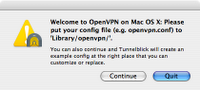
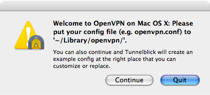
Updated 'Using Tunnelblick.html' and one of its images that go in the .dmg

diff --git a/tunnelblick/using-tunnelblick.html b/tunnelblick/using-tunnelblick.html
@@ -10,13 +10,14 @@ the <a href="http://www.gnu.org/licenses/gpl-2.0.html" rel="nofollow">GNU Genera
 <br>
 For more information, including wikis and a discussion group, see the <a href="http://code.google.com/p/tunnelblick/">Tunnelblick home page</a>.<br>
 <br>
-This document describes how to use Tunnelblick version 3.0b11 and was last modified 2009-06-19.<br>
-The most recent version of this document is kept at <a href="http://groups.google.com/group/tunnelblick-discuss/web/using-tunnelblick">http://groups.google.com/group/tunnelblick-discuss/web/using-tunnelblick</a>.<br>
+This document describes how to use Tunnelblick version 3.0b12 and was last modified 2009-07-22.<br>
+The most recently released version of this document is kept at <a href="http://groups.google.com/group/tunnelblick-discuss/web/using-tunnelblick">http://groups.google.com/group/tunnelblick-discuss/web/using-tunnelblick</a>.<br>
 <br>
 This document contains the following sections:<br>
 <ul><li><a href="#installing" rel="nofollow">Installing Tunnelblick</a></li>
 <li><a href="#updating" rel="nofollow">Updating Tunnelblick</a></li>
 <li><a href="#uninstalling" rel="nofollow">Uninstalling Tunnelblick</a></li>
+<li><a href="#configfiles" rel="nofollow">Configuration Files</a></li>
 <li><a href="#filelocations" rel="nofollow">File Locations</a></li>
 <li><a href="#thefirst" rel="nofollow">The First Time Tunnelblick is Run</a></li>
 <li><a href="#normal" rel="nofollow">Normal Tunnelblick Operation</a></li>
@@ -55,11 +56,28 @@ other files installed - OpenVPN and the tun/tap kernel extensions are
 contained within the Tunnelblick.app package and are loaded only when
 needed directly from there.<br>
 <br>
+<b><a name="configfiles" rel="nofollow">CONFIGURATION FILES</a><br>
+</b>Each tunnel to be opened by Tunnelblick needs an OpenVPN configuration file. Tunnelblick considers any file 
+located in ~/Library/openvpn with an extension of .conf or .ovpn to be a configuration file, and presents 
+each file as a potential "connection". Usually these configuration files will be supplied to you. Refer to 
+the <a href="http://openvpn.net/index.php/open-source/documentation.html?Itemid=79">OpenVPN documentation</a> 
+for details about what the configuration file should contain. (Note that the some OpenVPN options 
+are available only on Windows; others are not available on Windows.)<br>
+<br>
+If Tunnelblick's "Set Nameserver" option is used:<br>
+<ul>
+  <li>Any "up" or "down" options in the configuration file will be ignored.</li>
+  <li>If any "user" or "group" options appear in the configuration file, DNS settings will not be restored when a tunnel is disconnected.</li>
+</ul>
+<br>
 <b><a name="filelocations" rel="nofollow">FILE LOCATIONS</a><br>
 </b>Tunnelblick preferences are contained in
-~/Library/Preferences/com.openvpn.tunnelblick.plist. OpenVPN
-configuration, key, and certificate files are stored in
-~/Library/openvpn. Since these files are all located in the user's
+~/Library/Preferences/com.openvpn.tunnelblick.plist.<br>
+<br>
+OpenVPN configuration, key, and certificate files are stored in
+~/Library/openvpn.<br>
+<br>
+Since these files are all located in the user's
 Library folder, each user of a computer must set them up separately.
 (The "~" indicates your home directory.)<br>
 <br>
@@ -94,7 +112,8 @@ Specify whether or not you wish to have Tunnelblick check for updates.
 If an update is available, you will be given a choice to install the
 update or not.<br>
 <br>
-The first time Tunnelblick is run on each login account, it will display the following screen:<br>
+The first time Tunnelblick is run on each login account (when there are no configuration files in
+~/Library/openvpn), it will display the following screen:<br>
 <br>
 <div style="text-align: left;"><img src="using-tunnelblick-files/using-tunnelblick-welcome.png" border="0"></div>
 <p style="clear: both; text-align: left;"></p>
@@ -129,7 +148,7 @@ If you click on the icon, you'll see a drop down menu similar to the following:<
 <br>
 <p style="text-align: left; clear: both;"><img src="using-tunnelblick-files/using-tunnelblick-menu.png" border="0"></p>
 <br>
-There will be a "Connect" menu item for each .conf file in
+There will be a "Connect" menu item for each .ovpn or .conf file in
 ~/Library/openvpn/. Click on one to establish the corresponding
 pre-configured VPN connection. To illustrate the connection being
 established, three dots will appear in the menu item, and the
@@ -160,9 +179,9 @@ down the computer or use command-Q to quit Tunnelblick while displaying the
 login.<br>
 <br>
 <b><a name="using" rel="nofollow">USING MORE THAN ONE VPN CONNECTION</a></b><br>
-You can put more than one .conf file together with its key and/or
+You can put more than one .ovpn or .conf file together with its key and/or
 certificate files into the ~/Library/openvpn directory. Tunnelblick
-interprets each .conf file in the ~/Library/openvpn directory as a
+interprets each .ovpn or .conf file in the ~/Library/openvpn directory as a
 configuration file for a different connection; each of the connections
 will be available in the drop down menu.<br>
 <br>
@@ -171,7 +190,7 @@ Click on "Details..." to obtain details for all connections (open or closed). A 
 <br>
 <p style="text-align: left; clear: both;"><img src="using-tunnelblick-files/using-tunnelblick-details.png" border="0"></p>
 <br>
-There will be a tab for each connection (i.e., each .conf file),
+There will be a tab for each connection (i.e., each .ovpn or .conf file),
 whether the connection is open or closed. Each tab contains a pane with
 the OpenVPN log for the connection and two checkboxes that provide
 options for that connection:<br><ul><li>"Automatically
@@ -185,7 +204,7 @@ package at Tunnelblick.app/Contents/Resources. "Set Nameserver" is
 checked by default.</li></ul>
 In addition, the Details window contains four buttons:<br>
 <ul><li>"Clear Log" clears the OpenVPN log for the connection being displayed.<br><br></li>
-<li>"Edit Configuration" opens the .conf file containing the OpenVPN configuration for the connection being displayed in TextEdit.<br><br></li>
+<li>"Edit Configuration" opens the configuration file containing the OpenVPN configuration for the connection being displayed in TextEdit.<br><br></li>
 <li>"Connect" opens the connection being displayed.<br><br></li><li>"Disconnect" closes the connection being displayed.</li></ul>
 <b><a name="autostart" rel="nofollow">AUTOMATICALLY STARTING TUNNELBLICK UPON LOGIN</a></b><br>
 Tunnelblick was designed as a persistent menu icon that survives
@@ -218,7 +237,7 @@ Tunnelblick.app/Contents/Resources.<br>
   <tr>
     <td>&nbsp;&nbsp;&nbsp;&nbsp;&nbsp;</td>
     <td valign="top"><em>conf&#8209;path</em></td>
-    <td>is the path to the .conf file which describes the connection.</td>
+    <td>is the path to the .ovpn or .conf file which describes the connection.</td>
   </tr>
   <tr>
     <td>&nbsp;&nbsp;&nbsp;&nbsp;&nbsp;</td>
